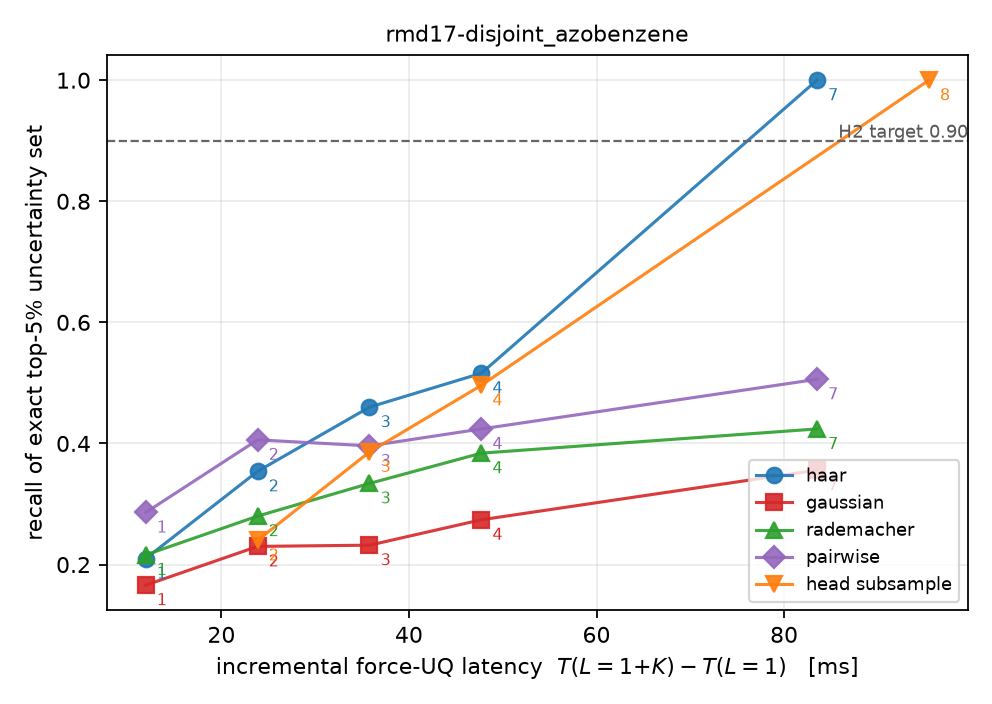
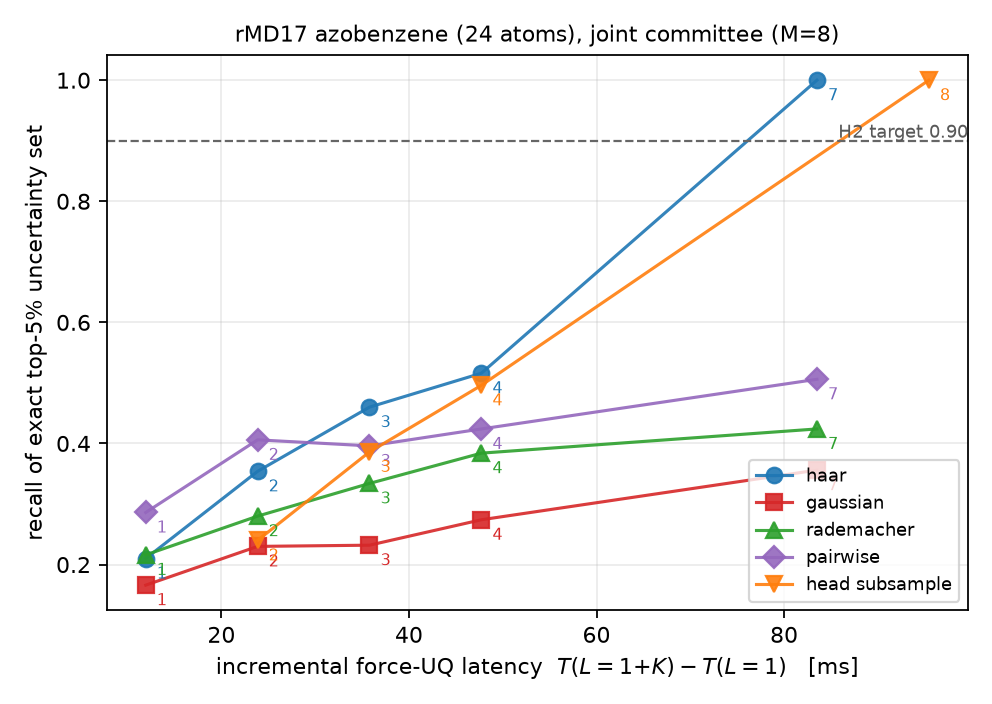
ForceSketch: freeze regenerates all five figures with real titles
The freeze script was regenerating fig2/fig5 with the bare system tag as title,
which would have silently degraded them on any re-freeze. It now carries proper
titles and also regenerates Figure 1, Figure 3 and Table 2, so a freeze
reproduces every artifact the paper uses rather than a subset.

Changed region(s): [[0.2188, 0.0312, 0.8438, 0.0625]]

diff --git a/forcesketch/scripts/09_freeze.py b/forcesketch/scripts/09_freeze.py
@@ -100,16 +100,30 @@ def main() -> int:
     Path("results/processed").mkdir(parents=True, exist_ok=True)
     Path("results/processed/table1_3bpa.md").write_text(table1_primary(SYSTEMS[0]))
     Path("results/processed/table3_screening.md").write_text(table3_screening(SYSTEMS))
+    from analysis.tables import table2_scaling
+    Path("results/processed/table2_scaling.md").write_text(table2_scaling())
     macros = emit_macros(Path("paper/macros.tex"))
 
-    from analysis.figures import pareto, screening_curve
+    from analysis.figures import k_tradeoff, method_schematic, pareto, screening_curve
+
+    TITLES = {
+        "disjoint_test_1200K": "3BPA@1200K, disjoint committee (M=8)",
+        "rmd17-disjoint_ethanol": "rMD17 ethanol (9 atoms), joint committee (M=8)",
+        "rmd17-disjoint_aspirin": "rMD17 aspirin (21 atoms), joint committee (M=8)",
+        "rmd17-disjoint_azobenzene": "rMD17 azobenzene (24 atoms), joint committee (M=8)",
+    }
+    method_schematic(Path("paper/figures/fig1_schematic.png"))
     for tag in SYSTEMS:
+        t = TITLES.get(tag, tag)
         if (RAW / f"03_sketch_fidelity_{tag}.jsonl").exists():
             pareto(RAW / f"03_sketch_fidelity_{tag}.jsonl",
-                   Path(f"paper/figures/fig2_pareto_{tag}.png"), title=tag)
+                   Path(f"paper/figures/fig2_pareto_{tag}.png"), title=t)
         if (RAW / f"06_screening_{tag}.jsonl").exists():
             screening_curve(RAW / f"06_screening_{tag}.jsonl",
-                            Path(f"paper/figures/fig5_screening_{tag}.png"), title=tag)
+                            Path(f"paper/figures/fig5_screening_{tag}.png"), title=t)
+    k_tradeoff(RAW / f"03_sketch_fidelity_{SYSTEMS[0]}.jsonl",
+               Path("paper/figures/fig3_k_tradeoff.png"),
+               title=TITLES[SYSTEMS[0]] + ", 10 seeds; error bars are seed sd")
 
     sha, dirty = git_commit()
     if dirty:
